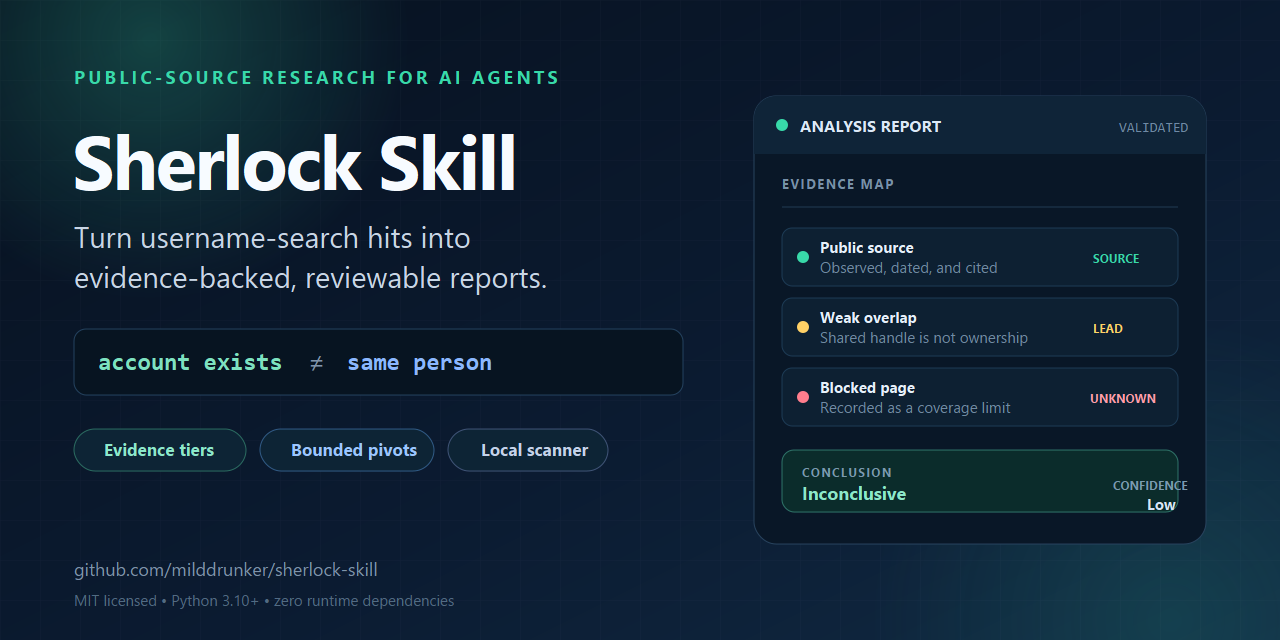
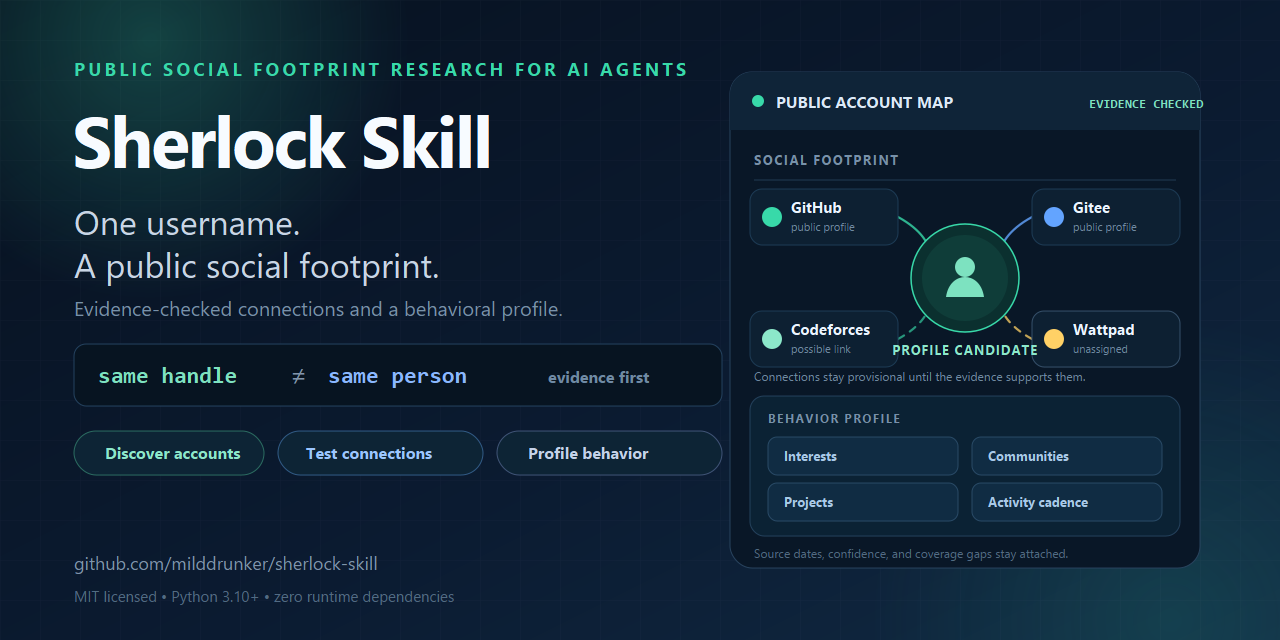
docs: refresh social preview artwork

diff --git a/docs/index.html b/docs/index.html
@@ -61,10 +61,11 @@
             src="assets/social-preview.png"
             width="1280"
             height="640"
-            alt="Sherlock Skill report preview showing sources, evidence leads, blocked checks, and an inconclusive conclusion."
+            alt="Sherlock Skill product preview showing a public social account map, evidence-checked identity links, and a behavioral profile."
           >
           <figcaption>
-            The report keeps discovery signals separate from identity evidence.
+            Find public social accounts, test which profiles belong together, and
+            keep the behavioral profile grounded in dated evidence.
           </figcaption>
         </figure>
       </section>

diff --git a/README.zh-CN.md b/README.zh-CN.md
@@ -3,7 +3,7 @@
 # Sherlock Skill
 
 <p align="center">
-  <img src=".github/assets/social-preview.svg" alt="Sherlock Skill — 有证据支持的用户名调查" width="100%">
+  <img src=".github/assets/social-preview.svg" alt="Sherlock Skill — 公开社交媒体足迹、证据核验与行为画像" width="100%">
 </p>
 
 **从一个用户名出发，尽可能发现一个人的公开社交媒体足迹，用证据串联账号，

diff --git a/README.md b/README.md
@@ -3,7 +3,7 @@
 # Sherlock Skill
 
 <p align="center">
-  <img src=".github/assets/social-preview.svg" alt="Sherlock Skill — evidence-backed username research" width="100%">
+  <img src=".github/assets/social-preview.svg" alt="Sherlock Skill — public social footprint, evidence-checked connections, and behavioral profile" width="100%">
 </p>
 
 **Find as much of a person's publicly discoverable social footprint as
